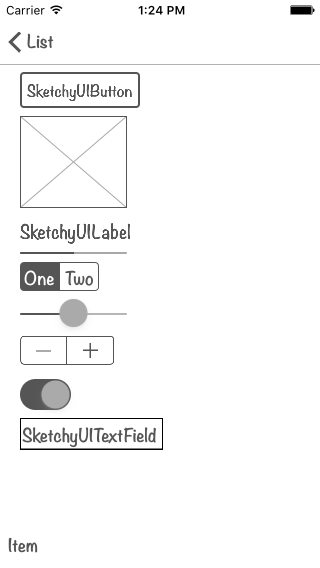
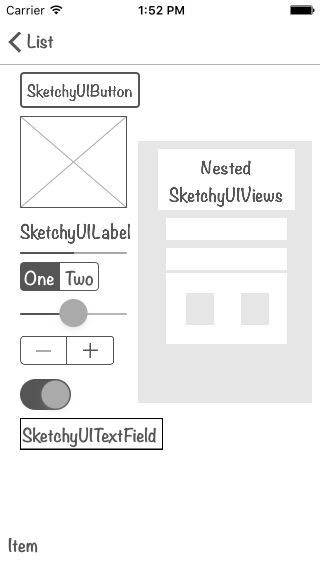
Add SketchyUIView. Update documentation.

Changed region(s): [[0.4062, 0.2394, 1.0, 0.7183], [0.4688, 0.0, 0.5938, 0.0299]]

diff --git a/SketchyUIKit/SketchyUIView.swift b/SketchyUIKit/SketchyUIView.swift
@@ -1,0 +1,42 @@
+import UIKit
+
+@IBDesignable class SketchyUIView: UIView {
+  required init?(coder: NSCoder) {
+    super.init(coder: coder)
+  }
+
+  required override init(frame: CGRect) {
+    super.init(frame: frame)
+    setup()
+  }
+
+  override func awakeFromNib() {
+    super.awakeFromNib()
+    setup()
+  }
+
+  override func prepareForInterfaceBuilder() {
+    super.prepareForInterfaceBuilder()
+    setup()
+    setNeedsDisplay()
+  }
+}
+
+private extension SketchyUIView {
+  func sketchyViewBackgroundColor() -> UIColor {
+    if let superview = self.superview {
+      if let sketchySuperview = superview as? SketchyUIView {
+        if sketchySuperview.sketchyViewBackgroundColor() == sketchyBackgroundColor {
+          return sketchyLightBackgroundColor
+        } else {
+          return sketchyBackgroundColor
+        }
+      }
+    }
+    return sketchyBackgroundColor
+  }
+
+  func setup() {
+    backgroundColor = sketchyViewBackgroundColor()
+  }
+}

diff --git a/SketchyUIKit/SketchyStyle.swift b/SketchyUIKit/SketchyStyle.swift
@@ -9,6 +9,7 @@ let sketchyDisabledTextColor = UIColor.lightGrayColor()
 let sketchyBorderColor = UIColor.darkGrayColor()
 let sketchyInnerCrossColor = UIColor.lightGrayColor()
 let sketchyBackgroundColor = UIColor.whiteColor()
+let sketchyLightBackgroundColor = UIColor(white: 0.9, alpha: 1.0)
 let sketchyAlternateBackgroundColor = UIColor.lightGrayColor()
 let sketchyBorderWidth = CGFloat(2.0)
 let sketchyRoundedCornerRadius = CGFloat(4.0)

diff --git a/README.md b/README.md
@@ -99,6 +99,7 @@ directly in Interface Builder:
 - `UITableViewCell`
 - `UITextField`
 - `UIToolbar`
+- `UIView`
 
 In SketchyKit, each of these classes has a corresponding subclass, named by
 simply putting the prefix `Sketchy` in front of the original, e.g.
